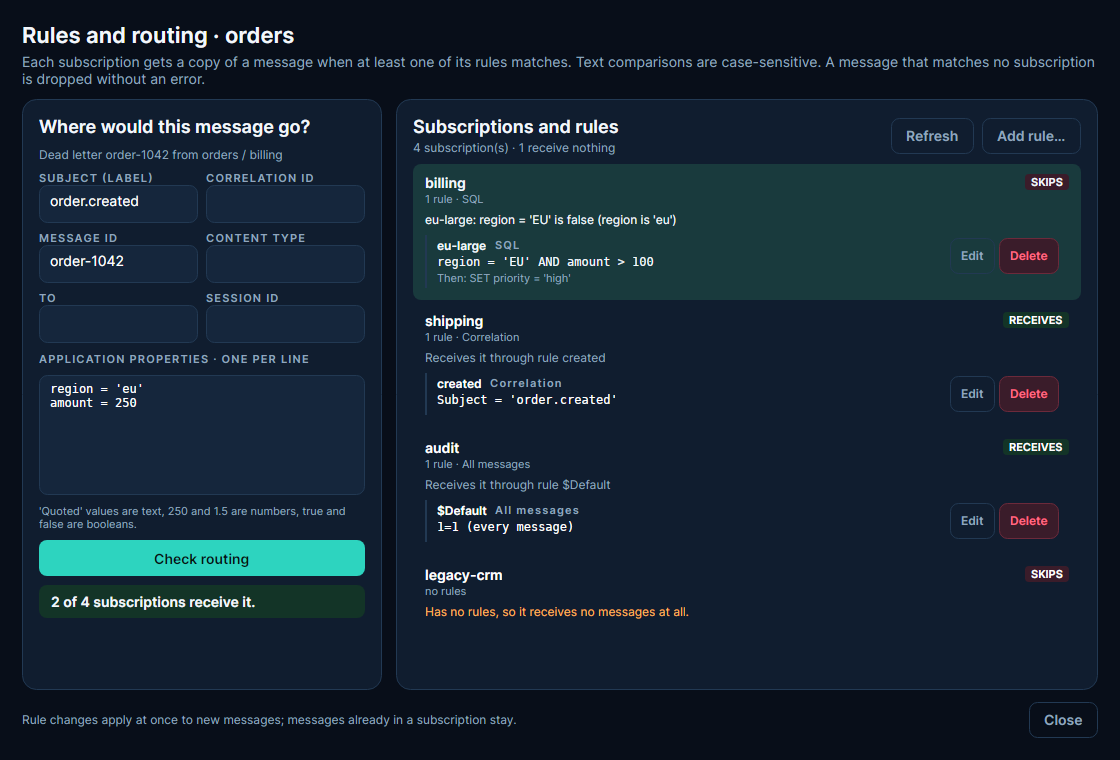
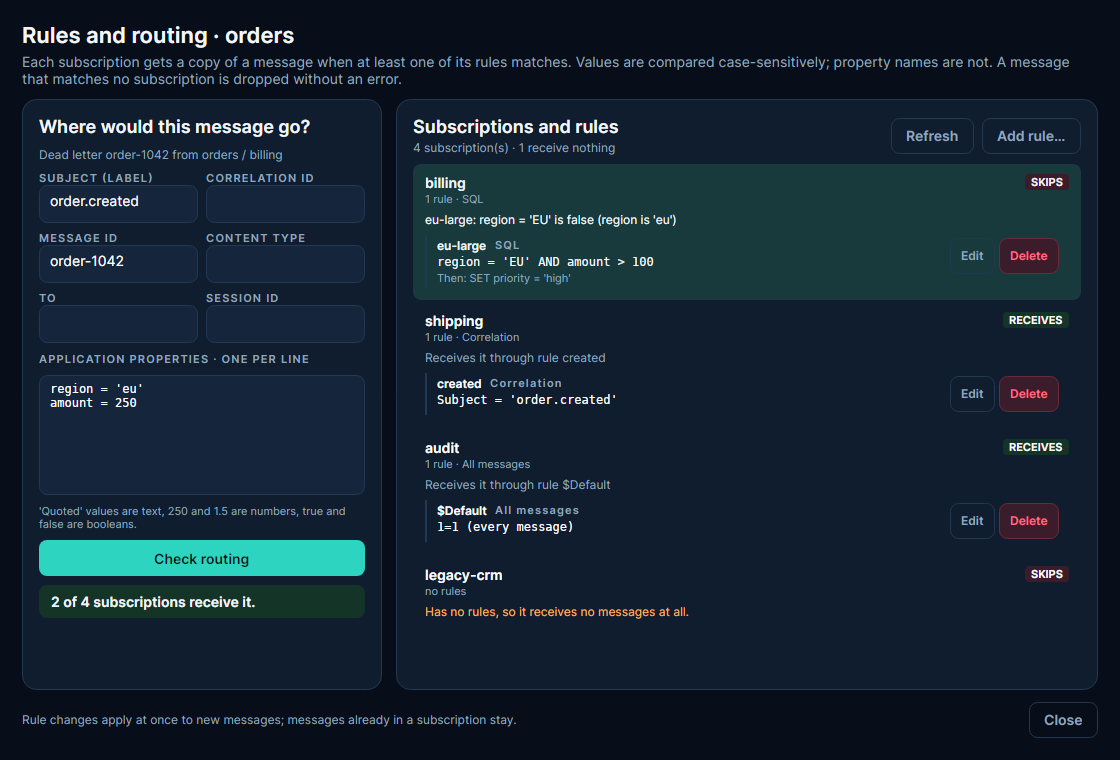
Rules: match property names without regard to case, as Service Bus does; values stay case-sensitive

Changed region(s): [[0.5, 0.0605, 0.9688, 0.0908], [0.0, 0.0908, 0.3438, 0.1211]]

diff --git a/tests/QueueLoom.IntegrationTests/AzureSubscriptionRulesTests.cs b/tests/QueueLoom.IntegrationTests/AzureSubscriptionRulesTests.cs
@@ -35,6 +35,11 @@ public sealed class AzureSubscriptionRulesTests : IAsyncLifetime
         ("numeric", new SubscriptionRule("numeric", RuleFilterKind.Correlation, Correlation: new CorrelationFilterFields
         {
             Properties = new Dictionary<string, object> { ["amount"] = 250L }
+        })),
+        ("name-case-sql", new SubscriptionRule("name-case-sql", RuleFilterKind.Sql, "Region = 'EU' AND user.TENANT = 'acme'")),
+        ("name-case-correlation", new SubscriptionRule("name-case-correlation", RuleFilterKind.Correlation, Correlation: new CorrelationFilterFields
+        {
+            Properties = new Dictionary<string, object> { ["Tenant"] = "acme" }
         }))
     ];
 
@@ -84,7 +89,8 @@ public sealed class AzureSubscriptionRulesTests : IAsyncLifetime
     public async Task Rules_are_read_and_the_prediction_matches_what_Service_Bus_delivers()
     {
         var rules = await _workspace.GetTopicRulesAsync(_topic);
-        Assert.Equal(["case", "created", "eu-big", "everything", "like", "missing", "numeric", "tenant"], rules.Select(item => item.Subscription));
+        Assert.Equal(["case", "created", "eu-big", "everything", "like", "missing", "name-case-correlation", "name-case-sql", "numeric", "tenant"],
+            rules.Select(item => item.Subscription));
         Assert.IsNotType<string>(rules.Single(item => item.Subscription == "numeric").Rules.Single().Correlation!.Properties["amount"]);
         Assert.Equal(RuleFilterKind.True, rules.Single(item => item.Subscription == "everything").Rules.Single().Kind);
         Assert.Equal("acme", rules.Single(item => item.Subscription == "tenant").Rules.Single().Correlation!.Properties["tenant"]);

diff --git a/src/QueueLoom.Core/Routing/RoutingMessage.cs b/src/QueueLoom.Core/Routing/RoutingMessage.cs
@@ -49,10 +49,27 @@ public sealed class RoutingMessage
         return value;
     }
 
+    /// <summary>
+    /// An application property by name. Service Bus matches property names without regard to case (values keep it),
+    /// so "Region" finds "region"; an exact match wins when a message has both.
+    /// </summary>
     public object? User(string name, out bool exists)
     {
-        exists = _user.TryGetValue(name, out var value);
-        return value;
+        if (_user.TryGetValue(name, out var value))
+        {
+            exists = true;
+            return value;
+        }
+        foreach (var (key, candidate) in _user)
+        {
+            if (string.Equals(key, name, StringComparison.OrdinalIgnoreCase))
+            {
+                exists = true;
+                return candidate;
+            }
+        }
+        exists = false;
+        return null;
     }
 
     private static object? Typed(MessageApplicationProperty property)

diff --git a/tests/QueueLoom.Tests/SqlFilterTests.cs b/tests/QueueLoom.Tests/SqlFilterTests.cs
@@ -40,6 +40,18 @@ public sealed class SqlFilterTests
         Assert.Equal(expected, SqlFilter.Parse(filter).Evaluate(Order) == true);
 
     [Fact]
+    public void PropertyNames_IgnoreCaseButValuesDoNot()
+    {
+        Assert.Equal(true, SqlFilter.Parse("Region = 'EU' AND user.AMOUNT > 100").Evaluate(Order));
+        Assert.Equal(false, SqlFilter.Parse("REGION = 'eu'").Evaluate(Order));
+        var correlation = new SubscriptionRule("c", RuleFilterKind.Correlation, Correlation: new CorrelationFilterFields
+        {
+            Properties = new Dictionary<string, object> { ["Region"] = "EU" }
+        });
+        Assert.Equal(RoutingOutcome.Receives, TopicRouting.Check(correlation, Order).Outcome);
+    }
+
+    [Fact]
     public void MissingProperties_AreUnknownAndNeverMatch()
     {
         Assert.Null(SqlFilter.Parse("priority = 'high'").Evaluate(Order));

diff --git a/src/QueueLoom.Mcp/QueueLoomReadTools.cs b/src/QueueLoom.Mcp/QueueLoomReadTools.cs
@@ -101,7 +101,7 @@ public sealed class QueueLoomReadTools(McpWorkspaceSession session, McpServerSet
     [Description("Azure Service Bus only. Lists every subscription of a topic with its rules (SQL or correlation filters). " +
                  "When message fields are given, also says which subscriptions would receive such a message and, for the others, " +
                  "which comparison failed. Use it when a message 'disappeared': a message no subscription matches is dropped silently. " +
-                 "Text comparisons are case-sensitive, as in Service Bus.")]
+                 "As in Service Bus, values are compared case-sensitively and property names are not.")]
     public Task<TopicRoutingInfo> CheckTopicRoutingAsync(
         [Description("Topic name.")] string topic,
         [Description(EnvironmentDescription)] string? environment = null,

diff --git a/src/QueueLoom.App/ViewModels/RuleEditorViewModel.cs b/src/QueueLoom.App/ViewModels/RuleEditorViewModel.cs
@@ -123,7 +123,7 @@ public sealed partial class RuleEditorViewModel : ObservableObject
         {
             if (string.IsNullOrWhiteSpace(SqlExpression))
             {
-                return "For example: region = 'EU' AND amount > 100, sys.Label LIKE 'order.%', tenant IN ('acme', 'globex'). Text is case-sensitive.";
+                return "For example: region = 'EU' AND amount > 100, sys.Label LIKE 'order.%', tenant IN ('acme', 'globex'). Values are case-sensitive; property names are not.";
             }
             try
             {

diff --git a/README.md b/README.md
@@ -64,7 +64,7 @@ The badge next to each environment (**AZURE**, **AWS**, **GCP**, **RABBITMQ**, *
 - **See who reads.** Explorer and Monitors show how many consumers a RabbitMQ queue has, and how far each Kafka consumer group is behind (its lag).
 - **Manage queues** (optional). Turn on **Allow creating, changing and deleting queues** for an environment, and **Explorer** → **Manage** creates a queue with its dead-letter queue, changes its settings (time to live, deliveries before dead-lettering, lock) or deletes it. For Pub/Sub it does the same for subscriptions: select a topic to add one. Deleting asks you to type the name.
 - **Share environments.** **Environments** → **Export…** saves every environment's settings to a file, without passwords, keys or connection strings; **Import…** adds them on another computer, read-only until you unlock them.
-- **Find out where messages go** (Azure Service Bus). Each subscription of a topic receives only the messages its rules (SQL or correlation filters) let through, and a message no subscription takes is dropped without an error. **Explorer** → **Rules…** lists every subscription's rules and warns about subscriptions that receive nothing. **Check routing** on a message, or on a draft in **Composer**, shows which subscriptions would receive it and, for the others, which comparison failed (for example *region = 'EU' is false (region is 'eu')*). With queue management allowed, rules can be added, changed and deleted there too.
+- **Find out where messages go** (Azure Service Bus). Each subscription of a topic receives only the messages its rules (SQL or correlation filters) let through (values are compared case-sensitively, property names are not), and a message no subscription takes is dropped without an error. **Explorer** → **Rules…** lists every subscription's rules and warns about subscriptions that receive nothing. **Check routing** on a message, or on a draft in **Composer**, shows which subscriptions would receive it and, for the others, which comparison failed (for example *region = 'EU' is false (region is 'eu')*). With queue management allowed, rules can be added, changed and deleted there too.
 - **Session-enabled** Azure queues and subscriptions work too: their dead letters like any other, their active messages session by session.
 - **Scheduled and deferred** Azure messages are marked in the list of active messages, with the time a scheduled one is due. Tick them (or click **Scheduled** or **Deferred** above the list) to cancel or remove them; each is backed up first.
 
